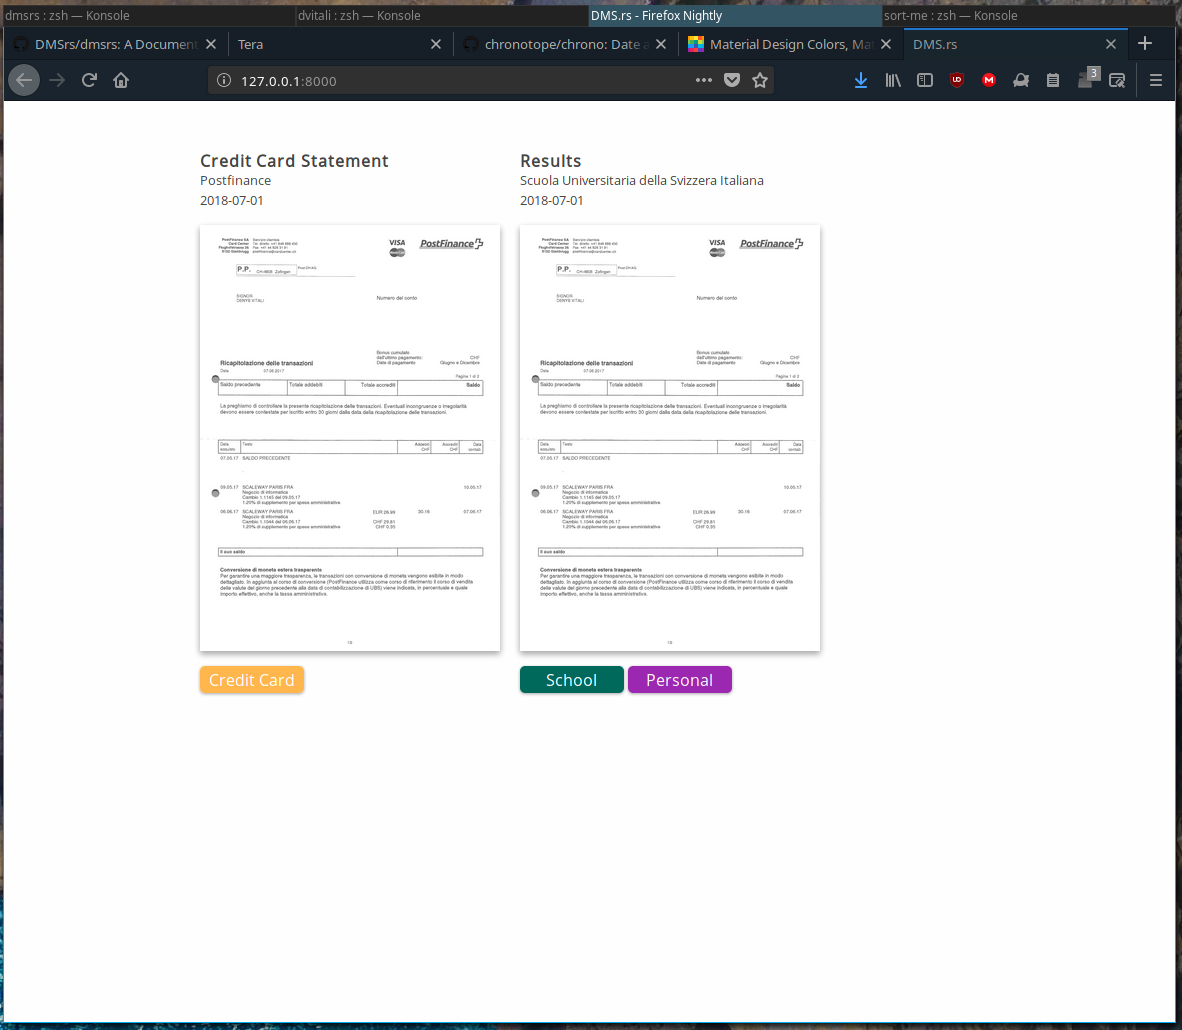
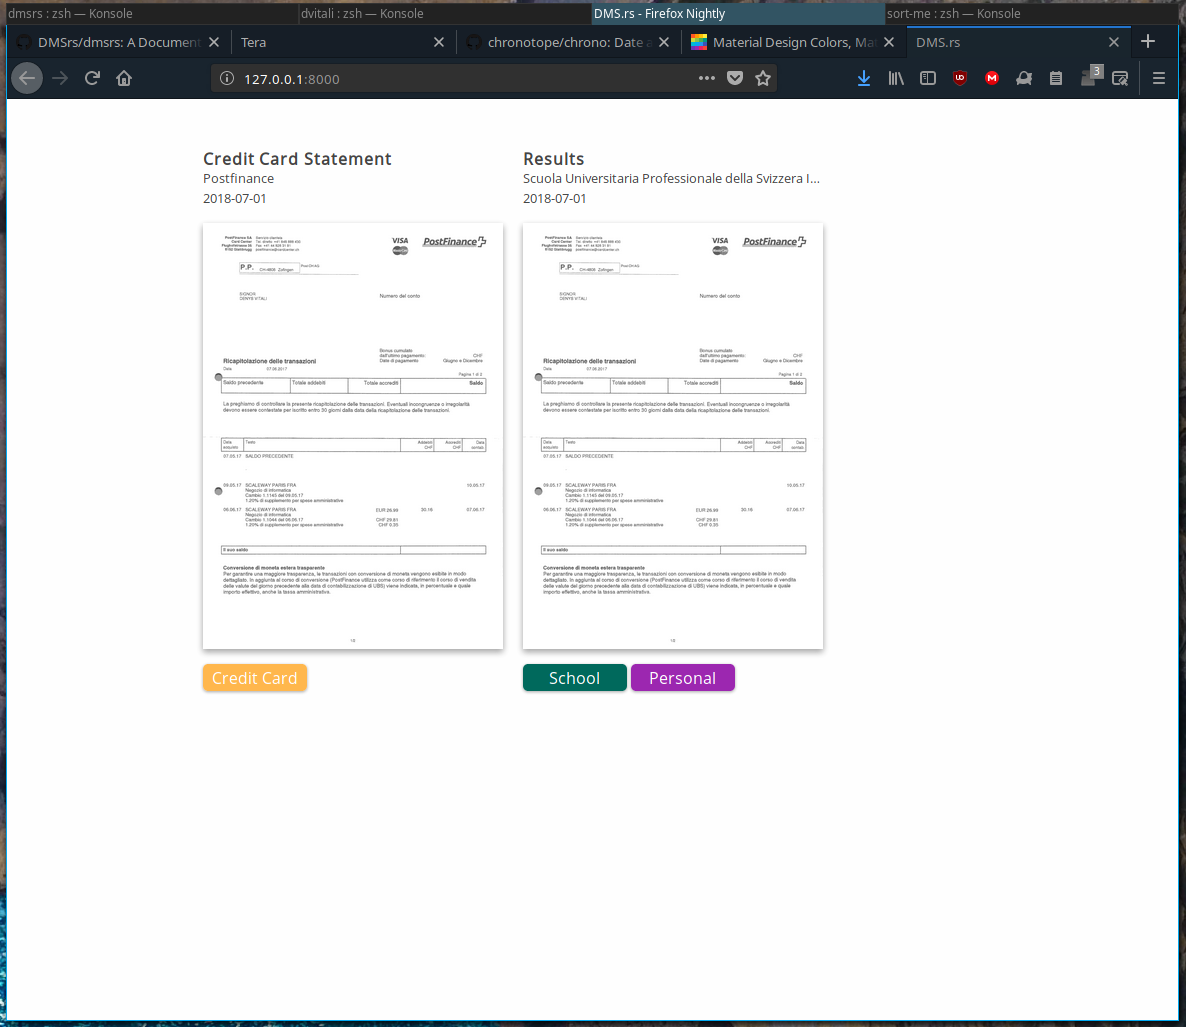
Fix From to show ellipsis

diff --git a/src/main.rs b/src/main.rs
@@ -45,7 +45,7 @@ fn index() -> Template {
     documents.push(Document {
         title: String::from("Results"),
         date: Utc::now(),
-        from: "Scuola Universitaria della Svizzera Italiana".to_string(),
+        from: "Scuola Universitaria Professionale della Svizzera Italiana".to_string(),
         image: Picture {
             src: "img/demo/document-1.jpg".to_string(),
         },
